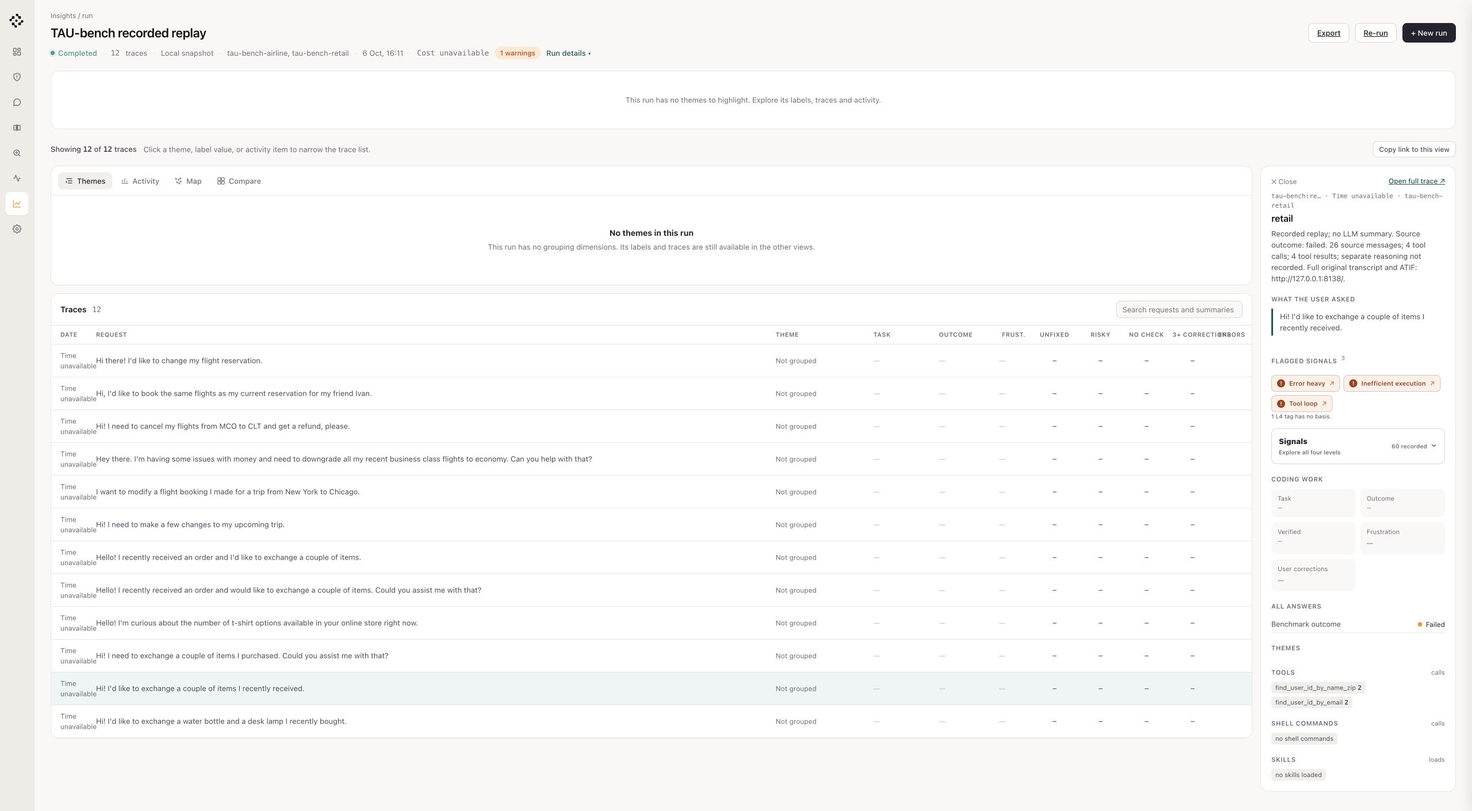
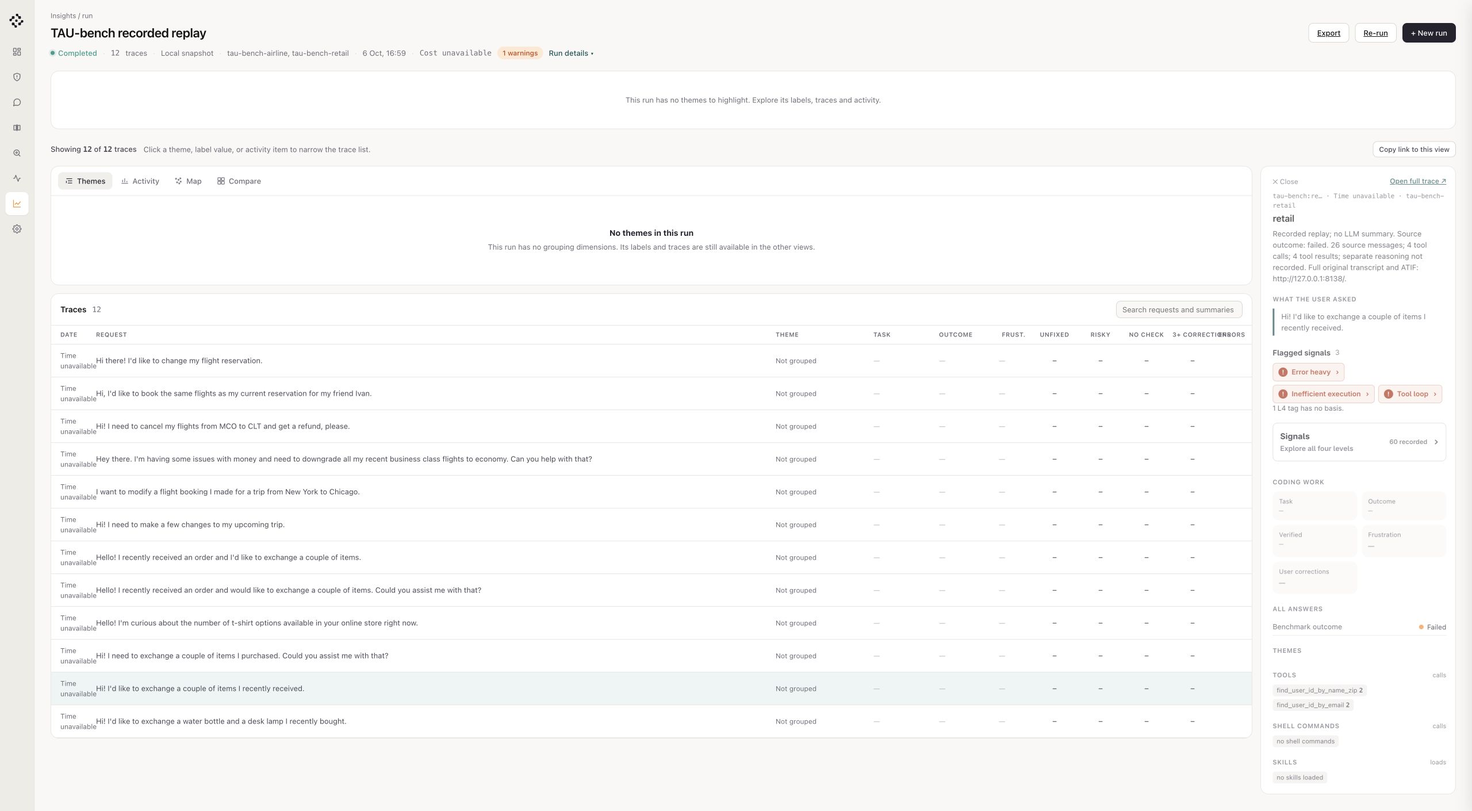
fix: refine signal review hierarchy and contrast (RES-1688)

diff --git a/src/evaluatorq/dashboard/static/insights-signals.css b/src/evaluatorq/dashboard/static/insights-signals.css
@@ -1,100 +1,113 @@
 /* Saved-signal component, shared by the review drawer and trace detail page. */
-.signal-panel { margin:18px 0; min-width:0; font-size:12px; line-height:1.5; color:var(--text-body); }
-.signal-panel h5 { margin:0; font-size:11px; font-weight:700; text-transform:uppercase; letter-spacing:.08em; }
-.signal-highlights { margin-bottom:13px; }
-.signal-highlights-heading { display:flex; align-items:center; gap:7px; margin-bottom:8px; }
-.signal-highlights-heading>span { color:var(--text-faint); font-size:10px; }
+.signal-panel { --signal-accent:var(--teal-600); --signal-tint:var(--teal-50); margin:20px 0; min-width:0; container-type:inline-size; font:13px/1.5 var(--font-sans,var(--sans)); color:var(--text-body); }
+.insights-trace-detail .signal-panel { padding:0; border:0; border-radius:0; background:transparent; }
+.signal-panel h5,.signal-panel .signal-highlights h5 { margin:0; font:600 13px/1.5 var(--font-sans,var(--sans)); color:var(--text-strong); text-transform:none; letter-spacing:normal; }
+.signal-highlights { margin-bottom:16px; }
+.signal-highlights-heading { display:flex; align-items:center; gap:8px; margin-bottom:8px; }
+.signal-highlights-heading>span { color:var(--text-muted); font-size:12px; }
 .signal-tags { display:flex; flex-wrap:wrap; gap:6px; }
-.signal-tag { display:inline-flex; align-items:center; gap:7px; padding:6px 9px; border:1px solid #e9bcb1; border-radius:7px; background:#fff0e8; color:#a53b17; font:600 11px/1.4 var(--sans); cursor:pointer; }
-.signal-tag>span:first-child { display:grid; place-items:center; width:14px; height:14px; border-radius:50%; background:#a53b17; color:#fff; font-size:10px; }
-.signal-tag>span:last-child { color:#bd765c; }
-.signal-tag:hover { background:#ffe6d9; border-color:#cc8b70; }
-.signal-coverage-note { margin:5px 0 0; color:var(--text-faint); font-size:10px; }
-.signal-empty { margin:8px 0; color:var(--text-faint); overflow-wrap:anywhere; }
+.signal-tag { display:inline-flex; align-items:center; gap:7px; max-width:100%; padding:6px 9px; border:1px solid #e9bcb1; border-radius:6px; background:var(--red-50); color:var(--red-700); font:600 12px/1.5 var(--font-sans,var(--sans)); text-align:left; overflow-wrap:anywhere; cursor:pointer; }
+.signal-tag>span:first-child { display:grid; place-items:center; flex:none; width:16px; height:16px; border-radius:50%; background:var(--red-700); color:#fff; font-size:11px; }
+.signal-tag>span:last-child { margin-left:2px; }
+.signal-tag:hover { background:var(--red-100); border-color:var(--red-700); }
+.signal-tag:active { background:var(--orange-100); }
+.signal-coverage-note { margin:7px 0 0; color:var(--text-muted); font-size:12px; }
+.signal-empty { margin:8px 0; color:var(--text-muted); overflow-wrap:anywhere; }
 .signal-highlights .signal-empty { margin:0; }
-.signal-browser { border:1px solid var(--border-default); border-radius:10px; background:var(--surface-card); }
-.signal-browser>summary,.signal-level>summary,.signal-evidence-section>summary { display:grid; grid-template-columns:minmax(0,1fr) auto 10px; align-items:center; gap:8px; cursor:pointer; list-style:none; }
-.signal-browser>summary { padding:12px; }
-.signal-browser>summary b { display:block; font-size:13px; color:var(--text-strong); }
-.signal-browser>summary small { display:block; margin-top:2px; font-size:10px; color:var(--text-faint); }
-.signal-total { color:var(--text-muted); font-size:10px; white-space:nowrap; }
-.signal-browser>summary::after,.signal-level>summary::after,.signal-row>summary::after,.signal-evidence-section>summary::after { content:'›'; color:var(--text-faint); font-size:17px; transform:rotate(90deg); }
-.signal-browser[open]>summary::after,.signal-level[open]>summary::after,.signal-row[open]>summary::after,.signal-evidence-section[open]>summary::after { transform:rotate(-90deg); }
+.signal-browser { border:1px solid var(--border-default); border-radius:8px; background:var(--surface-card); }
+.signal-browser>summary,.signal-level>summary,.signal-evidence-section>summary { display:grid; grid-template-columns:minmax(0,1fr) auto 12px; align-items:center; gap:10px; cursor:pointer; list-style:none; color:var(--text-body); }
+.signal-browser>summary { padding:14px; border-radius:8px; }
+.signal-browser>summary b { display:block; font-size:14px; color:var(--text-strong); }
+.signal-browser>summary small { display:block; margin-top:2px; font-size:12px; color:var(--text-muted); }
+.signal-total { color:var(--text-muted); font-size:12px; white-space:nowrap; }
+.signal-browser>summary::after,.signal-level>summary::after,.signal-row>summary::after,.signal-evidence-section>summary::after { content:''; display:block; width:6px; height:6px; justify-self:center; border:solid var(--text-body); border-width:0 1.5px 1.5px 0; transform:rotate(-45deg); transition:transform 180ms cubic-bezier(.22,1,.36,1); }
+.signal-browser[open]>summary::after,.signal-level[open]>summary::after,.signal-row[open]>summary::after,.signal-evidence-section[open]>summary::after { transform:rotate(45deg); }
 .signal-browser>summary::-webkit-details-marker,.signal-level>summary::-webkit-details-marker,.signal-row>summary::-webkit-details-marker,.signal-evidence-section>summary::-webkit-details-marker { display:none; }
-.signal-browser[open]>summary { border-bottom:1px solid var(--border-subtle); }
-.signal-browser-body { padding:10px; }
-.signal-level { --signal-accent:#2f6c9b; --signal-tint:#eef5fb; margin:8px 0; border:1px solid var(--border-subtle); border-left:3px solid var(--signal-accent); border-radius:8px; background:var(--surface-card); }
-.signal-level.l2 { --signal-accent:#176d58; --signal-tint:#edf7f2; }
-.signal-level.l3 { --signal-accent:#936d1d; --signal-tint:#fbf6e9; }
-.signal-level.l4 { --signal-accent:#a53b17; --signal-tint:#fff3ed; }
-.signal-level>summary { grid-template-columns:32px minmax(0,1fr) auto 8px; padding:10px 9px; min-height:51px; }
-.signal-level>summary:hover,.signal-level[open]>summary { background:var(--signal-tint); }
-.signal-level-number { display:grid; place-items:center; width:30px; height:30px; border-radius:7px; background:var(--signal-tint); color:var(--signal-accent); font-size:11px; font-weight:700; }
-.signal-level-name { font-weight:650; font-size:12px; color:var(--text-strong); }
-.signal-level-name small { display:block; margin-top:1px; font-size:10px; font-weight:400; color:var(--text-faint); }
-.signal-level-status { display:flex; flex-direction:column; align-items:flex-end; gap:3px; }
-.signal-level-status .signal-badge { font-size:9px; padding:1px 5px; }
-.signal-level-body { padding:3px 7px 7px; }
-.signal-row { margin:7px 0; border:1px solid var(--border-subtle); border-radius:8px; background:var(--surface-card); min-width:0; }
-.signal-row.flagged { border-color:#e9bcb1; }
-.signal-row[open] { border-color:var(--signal-accent); }
-.signal-row>summary { display:grid; grid-template-columns:16px minmax(0,1fr) auto 8px; align-items:center; gap:7px; padding:10px 8px; cursor:pointer; list-style:none; color:var(--text-body); }
-.signal-row>summary:hover { background:var(--surface-hover); border-radius:8px; }
-.signal-title { min-width:0; overflow-wrap:anywhere; font-size:12px; font-weight:600; line-height:1.35; }
-.signal-state-icon { display:grid; place-items:center; width:16px; height:16px; border-radius:50%; color:var(--signal-accent); background:var(--signal-tint); font-size:11px; font-weight:700; }
-.flagged>summary>.signal-state-icon { color:#a53b17; background:#fff0e8; }
-.clear>summary>.signal-state-icon { color:#176d58; background:#e6f4ef; }
-.no-basis>summary>.signal-state-icon { color:var(--text-faint); background:var(--surface-subtle); }
-.approximate>summary>.signal-state-icon { color:#785b0b; background:#fff7d6; }
-.signal-summary-meta { display:flex; align-items:center; justify-content:flex-end; gap:5px; min-width:0; }
-.signal-summary-value { max-width:64px; overflow-wrap:anywhere; font-weight:650; font-family:var(--mono); color:var(--signal-accent); }
-.signal-badge { display:inline-block; padding:2px 7px; border-radius:999px; background:var(--surface-subtle); color:var(--text-faint); font-family:inherit; font-weight:500; font-size:10px; line-height:1.5; white-space:nowrap; }
+.signal-browser>summary:hover { background:var(--signal-tint); }
+.signal-browser[open]>summary { border-bottom:1px solid var(--border-subtle); border-radius:8px 8px 0 0; }
+.signal-browser-body { padding:0 14px 12px; }
+.signal-level { margin:0; border:0; border-bottom:1px solid var(--border-subtle); background:transparent; }
+.signal-level>summary { grid-template-columns:34px minmax(0,1fr) auto 12px; padding:12px 0; min-height:60px; }
+.signal-level>summary:hover .signal-level-name { color:var(--signal-accent); }
+.signal-level-number { display:grid; place-items:center; width:32px; height:32px; border-radius:6px; background:var(--signal-tint); color:var(--signal-accent); font-size:12px; font-weight:600; }
+.signal-level[open]>summary .signal-level-number { background:var(--signal-accent); color:#fff; }
+.signal-level-name { font-weight:600; font-size:13px; color:var(--text-strong); }
+.signal-level-name small { display:block; margin-top:1px; font-size:12px; font-weight:400; color:var(--text-muted); }
+.signal-level-status { display:flex; flex-wrap:wrap; justify-content:flex-end; gap:4px; }
+.signal-level-body { padding-bottom:8px; }
+.signal-row { margin:0; border:0; border-top:1px solid var(--border-subtle); background:transparent; min-width:0; }
+.signal-row>summary { display:grid; grid-template-columns:18px minmax(0,1fr) auto 12px; align-items:center; gap:8px; padding:12px 4px; cursor:pointer; list-style:none; color:var(--text-body); border-radius:4px; }
+.signal-row>summary:hover { background:var(--signal-tint); }
+.signal-row[open]>summary .signal-title { color:var(--text-strong); }
+.signal-title { min-width:0; overflow-wrap:anywhere; font-size:13px; font-weight:600; line-height:1.4; }
+.signal-state-icon { display:grid; place-items:center; width:18px; height:18px; border-radius:50%; color:var(--signal-accent); background:var(--signal-tint); font-size:12px; font-weight:600; }
+.flagged>summary>.signal-state-icon { color:var(--red-700); background:var(--red-50); }
+.clear>summary>.signal-state-icon { color:var(--teal-600); background:var(--green-50); }
+.no-basis>summary>.signal-state-icon { color:var(--text-muted); background:var(--surface-sunken); }
+.approximate>summary>.signal-state-icon { color:var(--orange-700); background:var(--orange-50); }
+.signal-summary-meta { display:flex; flex-wrap:wrap; align-items:center; justify-content:flex-end; gap:6px; min-width:0; }
+.signal-summary-value { max-width:75px; overflow-wrap:anywhere; font-weight:600; font-family:var(--font-mono,var(--mono)); color:var(--signal-accent); }
+.signal-badge { display:inline-block; padding:2px 7px; border-radius:4px; background:var(--surface-sunken); color:var(--text-body); font-family:inherit; font-weight:500; font-size:11px; line-height:1.5; white-space:nowrap; }
 .signal-badge.measured { background:var(--signal-tint); color:var(--signal-accent); }
-.signal-badge.flagged { background:#fff0e8; color:#a53b17; }
-.signal-badge.clear { background:#e6f4ef; color:#176d58; }
-.signal-badge.approximate { background:#fff7d6; color:#785b0b; }
-.signal-body { padding:0 8px 10px; min-width:0; overflow-wrap:anywhere; }
-.signal-body .signal-code { display:block; margin:7px 2px 0; padding:0; border:0; background:transparent; color:var(--text-faint); font-size:9px; overflow-wrap:anywhere; }
-.signal-feedback { padding:12px; border:1px solid transparent; border-left:3px solid var(--signal-accent); border-radius:7px; background:var(--signal-tint); color:var(--signal-accent); }
-.signal-feedback.flagged { background:#fff0e8; border-left-color:#a53b17; color:#a53b17; }
-.signal-feedback.clear { background:#edf7f2; border-left-color:#176d58; color:#176d58; }
-.signal-feedback.approximate { background:#fff7d6; border-left-color:#936d1d; color:#785b0b; }
-.signal-feedback.no-basis { background:var(--surface-subtle); border-left-color:var(--border-strong); color:var(--text-muted); }
-.signal-result-heading { display:flex; justify-content:space-between; align-items:center; gap:8px; margin-bottom:6px; }
-.signal-result-heading>span:first-child { font-size:9px; font-weight:650; text-transform:uppercase; letter-spacing:.08em; }
-.signal-feedback .signal-result-value { display:block; font:650 28px/1.15 var(--mono); letter-spacing:-.04em; overflow-wrap:anywhere; color:inherit; }
-.signal-feedback.clear .signal-result-value,.signal-feedback.flagged .signal-result-value,.signal-feedback.no-basis .signal-result-value { font-family:var(--sans); font-size:23px; letter-spacing:-.025em; }
-.signal-feedback p { margin:8px 0 0; padding-top:8px; border-top:1px solid #0000000d; font-size:11px; color:var(--text-body); }
-.signal-value-entries { margin:10px 0 0; padding-top:8px; border-top:1px solid #0000000d; }
-.signal-value-entries>div { display:grid; grid-template-columns:minmax(0,1fr) auto; gap:8px; margin:4px 0; padding:5px 7px; border-radius:4px; background:#ffffff80; }
-.signal-value-entries dt { font-size:10px; overflow-wrap:anywhere; }
-.signal-value-entries dd { margin:0; font:650 12px/1.4 var(--mono); max-width:120px; overflow-wrap:anywhere; }
-.signal-checks { margin-top:12px; padding:9px; border:1px solid var(--border-subtle); border-radius:7px; }
-.signal-panel h6 { display:flex; align-items:center; gap:6px; margin:0 0 8px; font-size:11px; font-weight:650; color:var(--text-body); }
-.signal-panel h6>span { color:var(--text-faint); font-size:10px; font-weight:500; }
-.signal-check-count { display:flex; align-items:center; justify-content:space-between; gap:10px; color:var(--text-faint); font-size:10px; margin-bottom:8px; }
-.signal-check-count meter { width:75px; height:8px; accent-color:#176d58; }
+.signal-badge.flagged { background:var(--red-50); color:var(--red-700); }
+.signal-badge.clear { background:var(--green-50); color:var(--teal-600); }
+.signal-badge.approximate { background:var(--orange-50); color:var(--orange-700); }
+.signal-body { padding:0 4px 16px; min-width:0; overflow-wrap:anywhere; }
+.signal-body .signal-code { display:block; margin:8px 0 0; padding:0; border:0; background:transparent; color:var(--text-muted); font-size:11px; overflow-wrap:anywhere; }
+.signal-feedback { padding:14px; border:0; border-radius:6px; background:var(--signal-tint); color:var(--signal-accent); }
+.signal-feedback.flagged { background:var(--red-50); color:var(--red-700); }
+.signal-feedback.clear { background:var(--green-50); color:var(--teal-600); }
+.signal-feedback.approximate { background:var(--orange-50); color:var(--orange-700); }
+.signal-feedback.no-basis { background:var(--surface-sunken); color:var(--text-body); }
+.signal-result-heading { display:flex; flex-wrap:wrap; align-items:baseline; gap:10px; }
+.signal-result-status { font-size:13px; font-weight:600; }
+.signal-feedback .signal-result-value { min-width:0; font:600 26px/1.2 var(--font-mono,var(--mono)); letter-spacing:-.025em; overflow-wrap:anywhere; color:inherit; }
+.signal-feedback.clear .signal-result-value,.signal-feedback.flagged .signal-result-value,.signal-feedback.no-basis .signal-result-value { font-family:var(--font-sans,var(--sans)); font-size:22px; }
+.signal-feedback p { max-width:70ch; margin:8px 0 0; font-size:13px; color:var(--text-body); text-wrap:pretty; }
+.signal-value-entries { margin:12px 0 0; }
+.signal-value-entries>div { display:grid; grid-template-columns:minmax(0,1fr) minmax(0,auto); gap:10px; padding:7px 0; border-top:1px solid #02555820; }
+.signal-value-entries dt { font-size:12px; overflow-wrap:anywhere; }
+.signal-value-entries dd { margin:0; font:600 13px/1.5 var(--font-mono,var(--mono)); max-width:120px; overflow-wrap:anywhere; }
+.signal-panel .signal-checks { margin-top:18px; padding:0; border:0; border-radius:0; background:transparent; }
+.signal-panel h6 { display:flex; align-items:center; gap:7px; margin:0 0 8px; font:600 13px/1.5 var(--font-sans,var(--sans)); color:var(--text-strong); text-transform:none; letter-spacing:normal; }
+.signal-panel h6>span { color:var(--text-muted); font-size:12px; font-weight:400; }
+.signal-check-count { display:flex; align-items:center; justify-content:space-between; gap:10px; color:var(--text-muted); font-size:12px; margin-bottom:10px; }
+.signal-check-count meter { width:80px; height:8px; accent-color:var(--teal-600); }
 .signal-preconditions,.signal-evidence { list-style:none; margin:0; padding:0; }
-.signal-preconditions li { display:grid; grid-template-columns:18px minmax(0,1fr); gap:7px; padding:8px 7px; margin:5px 0; border-left:2px solid #d18a6e; border-radius:4px; background:#fff7f2; }
-.signal-preconditions li.met { border-left-color:#71a58f; background:#f0f8f4; }
-.signal-preconditions li.partial { border-left-color:#c2a258; background:#fffbed; }
-.signal-check-icon { width:17px; height:17px; text-align:center; border-radius:5px; background:#fff0e8; color:#a53b17; font-weight:700; }
-.signal-preconditions .met .signal-check-icon { background:#e0f1e9; color:#176d58; }
-.signal-preconditions .partial .signal-check-icon { background:#fff1c4; color:#785b0b; }
-.signal-check-title b { font-size:10px; font-weight:600; }
-.signal-check-title>span { display:block; color:var(--text-faint); font-size:9px; }
-.signal-preconditions p { margin:3px 0 0; color:var(--text-muted); font-size:10px; }
-.signal-evidence-section { margin-top:10px; border-top:1px solid var(--border-subtle); }
-.signal-evidence-section>summary { padding:8px 2px 3px; font-weight:600; font-size:11px; }
-.signal-evidence-section>summary>span { min-width:18px; text-align:center; padding:0 4px; border-radius:4px; background:var(--signal-tint); color:var(--signal-accent); font-size:10px; }
-.signal-evidence li { display:flex; align-items:flex-start; gap:7px; margin:6px 0; padding:5px; border-radius:4px; background:var(--surface-subtle); font-size:11px; }
+.signal-preconditions li { display:grid; grid-template-columns:20px minmax(0,1fr); gap:8px; padding:10px 0; margin:0; border-top:1px solid var(--border-subtle); }
+.signal-check-icon { display:grid; place-items:center; width:20px; height:20px; border-radius:4px; background:var(--red-50); color:var(--red-700); font-weight:600; }
+.signal-preconditions .met .signal-check-icon { background:var(--green-50); color:var(--teal-600); }
+.signal-preconditions .partial .signal-check-icon { background:var(--orange-50); color:var(--orange-700); }
+.signal-check-title { display:flex; flex-wrap:wrap; align-items:baseline; gap:3px 8px; }
+.signal-check-title b { font-size:12px; font-weight:600; color:var(--text-strong); }
+.signal-check-title>span { color:var(--text-muted); font-size:11px; }
+.signal-preconditions p { max-width:70ch; margin:4px 0 0; color:var(--text-body); font-size:12px; text-wrap:pretty; }
+.signal-evidence-section { margin-top:12px; border-top:1px solid var(--border-subtle); }
+.signal-evidence-section>summary { padding:12px 0; font-weight:600; font-size:13px; border-radius:4px; }
+.signal-evidence-section>summary:hover { color:var(--signal-accent); }
+.signal-evidence-section>summary>span { color:var(--text-muted); font-size:12px; font-weight:400; }
+.signal-evidence li { display:flex; align-items:flex-start; gap:10px; margin:0; padding:10px 0; border-top:1px solid var(--border-subtle); font-size:12px; }
 .signal-evidence li>div { min-width:0; overflow-wrap:anywhere; }
-.signal-evidence code,.signal-evidence li>div>span { display:block; color:var(--text-faint); font-size:10px; }
-.signal-evidence p { margin:3px 0; }
-.signal-step { flex:none; padding:2px 6px; border-radius:5px; background:var(--signal-tint); color:var(--signal-accent); font-size:10px; font-weight:600; }
-.signal-rule { margin-top:8px; color:var(--text-faint); font-size:9px; }
-.signal-config { margin:12px 2px 0; color:var(--text-faint); font-size:10px; }
-.signal-config summary { cursor:pointer; padding:5px 0; }
-.signal-config code,.signal-config pre { overflow-wrap:anywhere; white-space:pre-wrap; font:10px/1.5 var(--mono); }
+.signal-evidence code,.signal-evidence li>div>span { display:block; color:var(--text-muted); font-size:11px; }
+.signal-evidence p { max-width:70ch; margin:4px 0; }
+.signal-step { flex:none; padding:2px 6px; border-radius:4px; background:var(--signal-tint); color:var(--signal-accent); font-size:11px; font-weight:600; }
+.signal-rule { margin-top:8px; color:var(--text-muted); font-size:11px; }
+.signal-config { margin:12px 0 0; color:var(--text-muted); font-size:12px; }
+.signal-config summary { cursor:pointer; padding:8px 0; color:var(--text-muted); }
+.signal-config summary:hover { color:var(--signal-accent); }
+.signal-config code,.signal-config pre { overflow-wrap:anywhere; white-space:pre-wrap; font:11px/1.5 var(--font-mono,var(--mono)); }
+.signal-config pre { color:var(--text-body); }
 .signal-config>div { padding-top:5px; }
-.signal-tag:focus-visible,.signal-panel summary:focus-visible { outline:2px solid var(--teal-600); outline-offset:2px; border-radius:6px; }
+.signal-tag:focus-visible,.signal-panel summary:focus-visible { outline:2px solid var(--teal-600); outline-offset:2px; border-radius:4px; }
+.signal-tag,.signal-panel summary { transition:background-color 180ms ease-out,color 180ms ease-out; }
+@container (max-width:380px) {
+  .signal-level-status { flex-direction:column; align-items:flex-end; }
+  .signal-row>summary { grid-template-columns:18px minmax(0,1fr) 12px; gap:6px 8px; }
+  .signal-summary-meta { grid-column:2; grid-row:2; justify-content:flex-start; }
+  .signal-row>summary::after { grid-column:3; grid-row:1 / 3; }
+  .signal-browser>summary { padding:12px; gap:8px; }
+  .signal-total { font-size:11px; }
+}
+@media (prefers-reduced-motion:reduce) {
+  .signal-tag,.signal-panel summary,.signal-panel summary::after { transition:none; }
+}

diff --git a/src/evaluatorq/dashboard/static/insights-signals.js b/src/evaluatorq/dashboard/static/insights-signals.js
@@ -41,9 +41,9 @@
     const displayValue = signal.group === 'D' && typeof signal.value === 'boolean' ? status.label : value(signal.value);
     const breakdown = signal.value != null && typeof signal.value === 'object' && !signal.no_basis
       ? `<dl class="signal-value-entries">${Object.entries(signal.value).map(([key, item]) => `<div><dt>${esc(key)}</dt><dd>${esc(value(item))}</dd></div>`).join('')}</dl>` : '';
-    const resultValue = signal.no_basis || signal.value == null ? 'No basis'
+    const resultValue = signal.no_basis || signal.value == null ? status.label
       : typeof signal.value === 'object' ? `${Object.keys(signal.value).length} entries` : displayValue;
-    const result = `<div class="signal-feedback ${status.kind}"><div class="signal-result-heading"><span>Result</span><span class="signal-badge ${status.kind}">${status.label}</span></div><strong class="signal-result-value">${esc(resultValue)}</strong>${signal.no_basis ? `<p>${esc(signal.no_basis)}</p>` : signal.reason ? `<p>${esc(signal.reason)}</p>` : ''}${breakdown}</div>`;
+    const result = `<div class="signal-feedback ${status.kind}" role="group" aria-label="Result"><div class="signal-result-heading"><strong class="signal-result-value">${esc(resultValue)}</strong>${resultValue !== status.label ? `<span class="signal-result-status">${status.label}</span>` : ''}</div>${signal.no_basis ? `<p>${esc(signal.no_basis)}</p>` : signal.reason ? `<p>${esc(signal.reason)}</p>` : ''}${breakdown}</div>`;
     const checks = detail
       ? preconditions(detail.preconditions || [])
       : `<p class="signal-empty">${options.loading ? 'Loading preconditions…' : options.error ? 'Preconditions could not be loaded.' : 'Preconditions are not loaded.'}</p>`;
@@ -59,7 +59,7 @@
     const fullResults = options.detail?.signals?.results || {};
     const flagged = names.filter(name => state(results[name]).kind === 'flagged').sort();
     const unknownTags = names.filter(name => results[name].group === 'D' && state(results[name]).kind === 'no-basis').length;
-    const highlights = `<div class="signal-highlights"><div class="signal-highlights-heading"><h5>Flagged signals</h5><span>${flagged.length}</span></div>${flagged.length ? `<div class="signal-tags">${flagged.map(name => `<button type="button" class="signal-tag" data-signal-focus="${esc(name)}" aria-label="View ${esc(title(name))}"><span aria-hidden="true">!</span>${esc(title(name))}<span aria-hidden="true">↗</span></button>`).join('')}</div>` : '<p class="signal-empty">No flagged L4 signals.</p>'}${unknownTags ? `<p class="signal-coverage-note">${unknownTags} L4 ${unknownTags === 1 ? 'tag has' : 'tags have'} no basis.</p>` : ''}</div>`;
+    const highlights = `<div class="signal-highlights"><div class="signal-highlights-heading"><h5>Flagged signals</h5><span>${flagged.length}</span></div>${flagged.length ? `<div class="signal-tags">${flagged.map(name => `<button type="button" class="signal-tag" data-signal-focus="${esc(name)}" aria-label="View ${esc(title(name))}"><span aria-hidden="true">!</span>${esc(title(name))}<span aria-hidden="true">›</span></button>`).join('')}</div>` : '<p class="signal-empty">No flagged L4 signals.</p>'}${unknownTags ? `<p class="signal-coverage-note">${unknownTags} L4 ${unknownTags === 1 ? 'tag has' : 'tags have'} no basis.</p>` : ''}</div>`;
     const error = options.error ? `<p class="signal-empty" role="status">Could not load signal details: ${esc(options.error)} <button type="button" class="btn" data-signal-retry="${esc(options.retryId || '')}">Retry</button></p>` : options.loading ? '<p class="signal-empty" role="status">Loading signal details…</p>' : '';
     const groups = Object.keys(labels).map(level => {
       const groupNames = names.filter(name => levels[results[name].group] === level);

diff --git a/CHANGELOG.md b/CHANGELOG.md
@@ -21,7 +21,7 @@ All notable changes to `evaluatorq` are documented here.
 
 - Determine L4 tags from sufficient recorded evidence even when other measurements are missing. Retry counts are zero when the configured matching rules admit no possible retry; missing error status remains unknown when a retry is possible.
 
-- Show flagged L4 tags in the initial Insights trace view, with the full Signals section collapsed until opened; provide separate expandable L1–L4 groups, signal rows with visible preconditions, and separately collapsed evidence.
+- Show flagged L4 tags in the initial Insights trace view, with the full Signals section collapsed until opened; provide separate expandable L1–L4 groups, signal rows with visible preconditions, and separately collapsed evidence. Signal review uses flat level rows, readable status labels, and semantic result colors; narrow layouts wrap metadata below each signal name.
 
 - Dataset trace documents now carry typed `DatasetRef` and `Outcome` metadata outside ATIF, support rows without span IDs or timestamps, and convert to evaluation datapoints with preserved provenance and ground truth. `check_trace_document()` checks source-measured counts, outcomes, and wrapper JSON round-trips.
 
